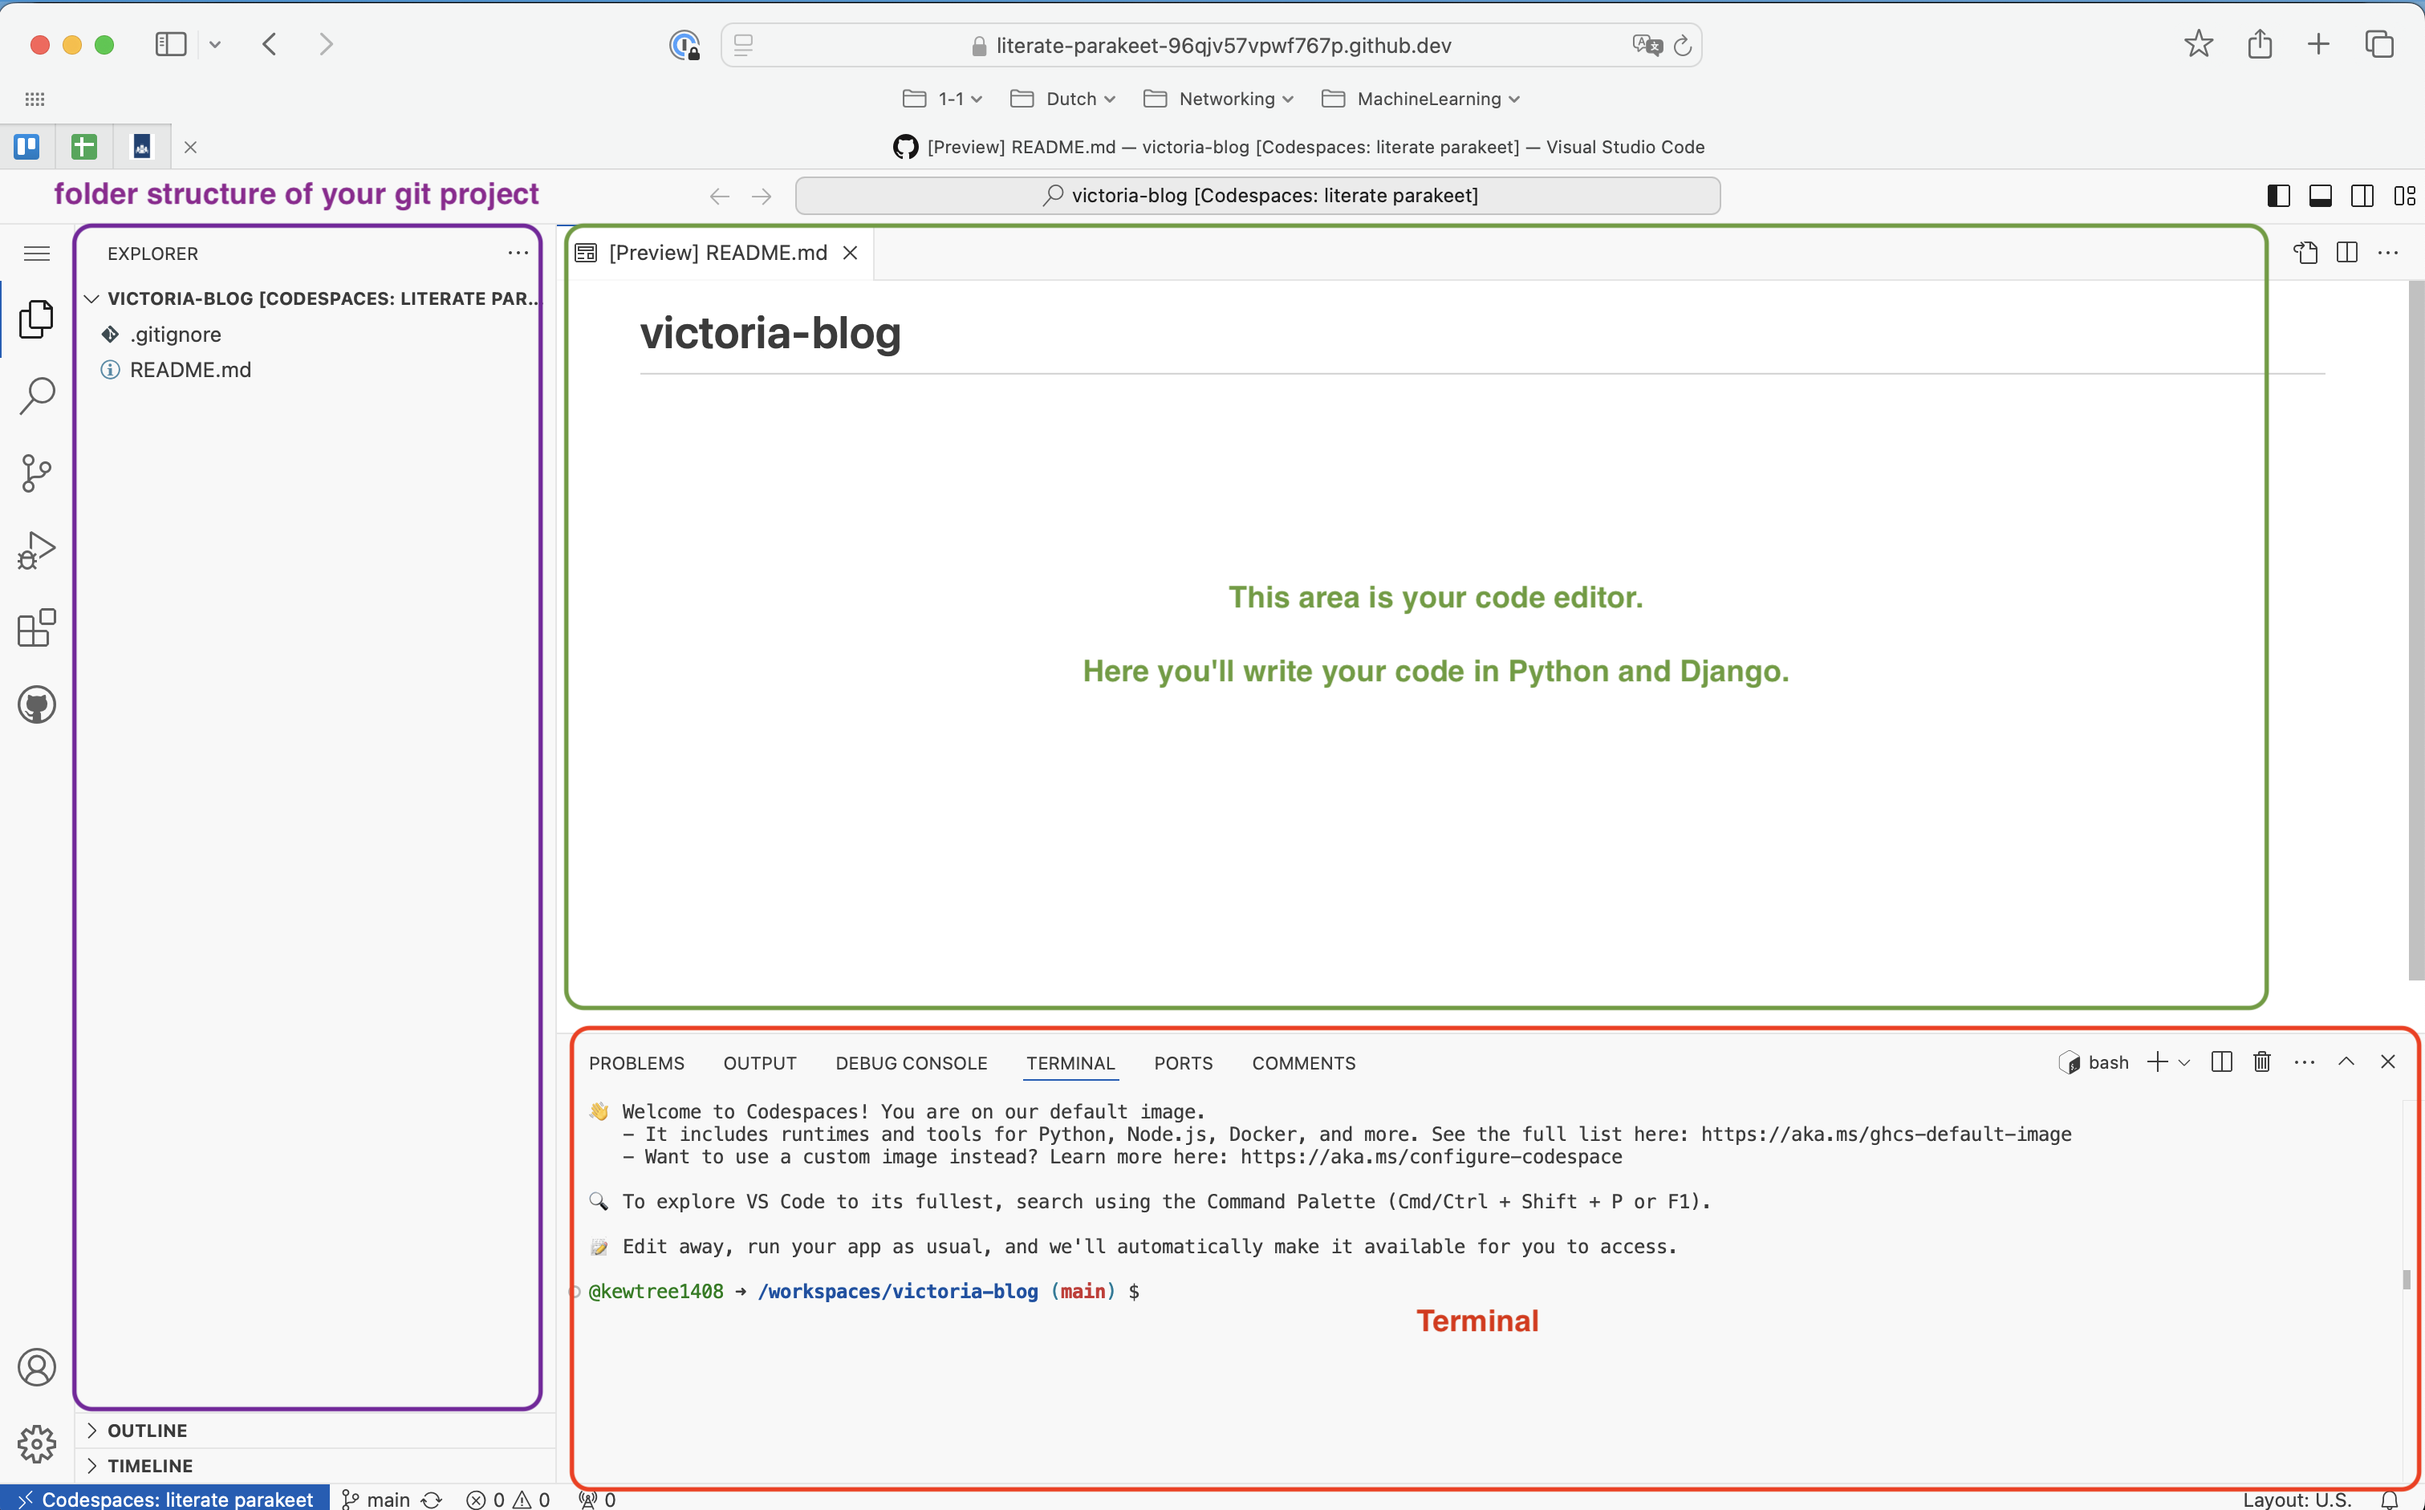
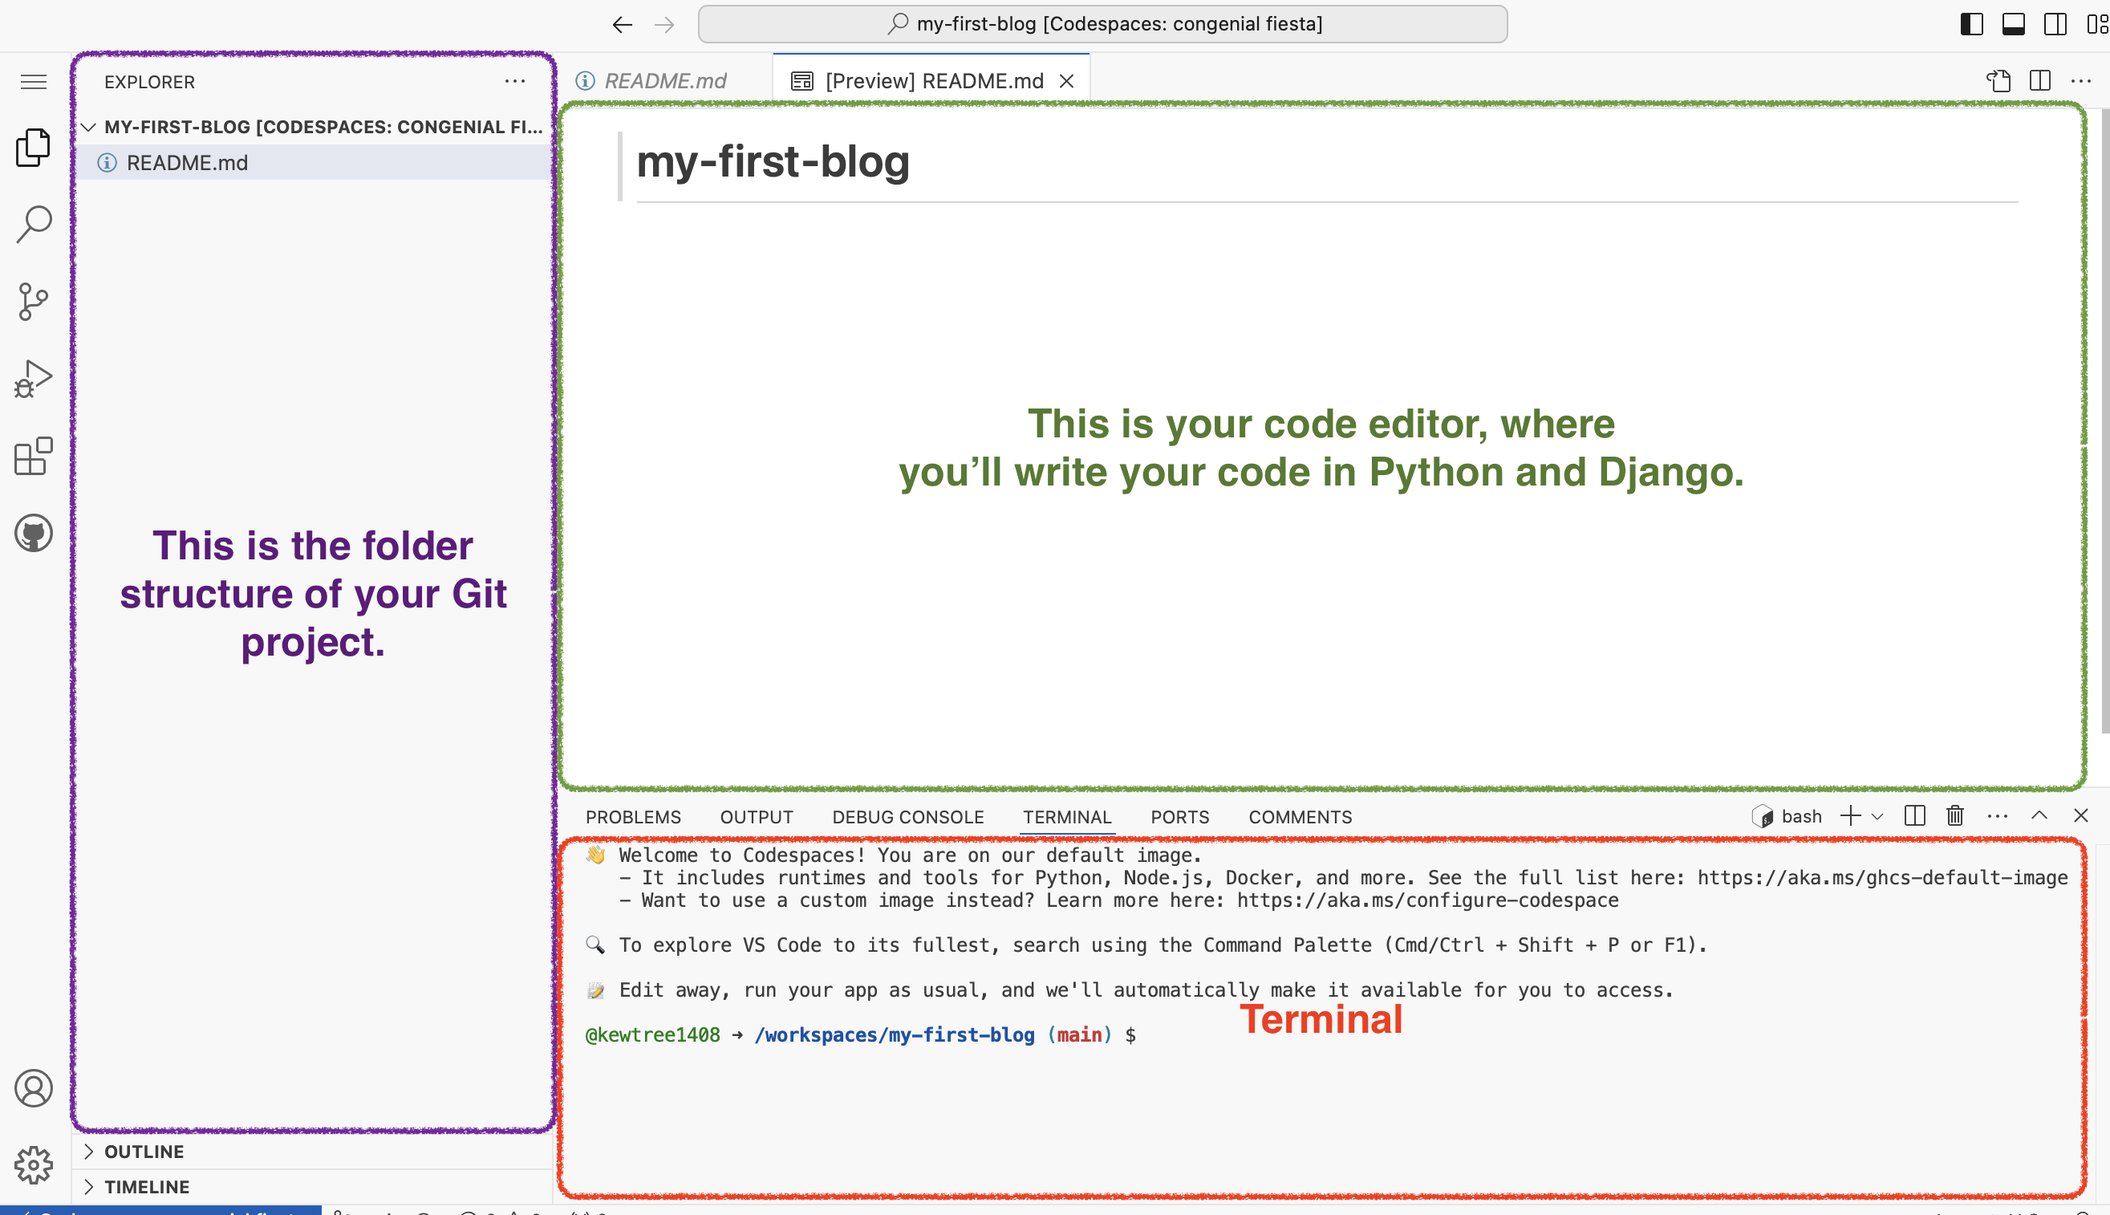
Fixes from PR discussion:
- Reverted the note for Chromebook setup.
- Renamed all screenshots and text regarding the first repository creation to "my-first-repo".
- Updated the "Deploy" chapter with more screenshots.
- Fixed the "Create GitHub account" instructions for Chromebook setup.
- Used a numbered list for Chromebook instructions.
- Corrected indentation in the Chromebook markdown.

diff --git a/en/chromebook_setup/instructions.md b/en/chromebook_setup/instructions.md
@@ -1,35 +1,32 @@
-For people using a Chromebook or those with limited memory on their laptops, we recommend using a cloud IDE environment. This allows you to interact with the command line, Python, and Django directly through your browser, where a code editor is already installed.
+For people using a Chromebook or those with limited memory on their laptops, we recommend using a cloud IDE environment. This allows you to interact with the command line, Python, and Django directly through your browser, where a code editor is already installed. In case you using this instruction, some steps of the tutorial don't have to be done again ("Deploy/Git" [part](https://tutorial.djangogirls.org/en/deploy/#installing-git) ). You’ll find a more detailed explanation in the “Deploy/Git” section.
 
 Your installation experience will be a little different.
 
-- Make a [GitHub](https://github.com) account.
-- Create a GitHub project. Visit [this](https://github.com/new) link, choose any name for your project, and make it public (needed for deployment, you can make it private later). Also, add a `README.md` and `.gitignore` file.
+1. **Go to [GitHub.com](https://github.com)** and sign up for a new, free user account. Be sure to remember your password (add it to your password manager, if you use one).
 
-![](../chromebook_setup/images/create-new-repo.png)
+2. **Create a GitHub project**. Visit [this](https://github.com/new) link, use "my-first-blog" name for your project, and make it public (needed for deployment, you can make it private later). Also, add a `README.md` and `.gitignore` file.
 
-In case you using this instruction, some steps of the tutorial don't have to be done again ("Deploy/Git" [part](https://tutorial.djangogirls.org/en/deploy/#installing-git)). 
+    ![](../chromebook_setup/images/create-new-repo.png)
 
-- Start a Codespace. Go to GitHub [Codespaces](https://github.com/codespaces/new) and select the repository you just created. Click "Create Codespace".
+3. **Start a Codespace**. Go to GitHub [Codespaces](https://github.com/codespaces/new) and select the repository you just created. Click "Create Codespace".
 
-![](../chromebook_setup/images/create-new-codespace.png)
+    ![](../chromebook_setup/images/create-new-codespace.png)
 
-Wait a little bit and you'll see something like that:
+    Wait a little bit and you'll see something like that:
 
-![](../chromebook_setup/images/codespace-preview.png)
+    ![](../chromebook_setup/images/codespace-preview.png)
 
-The [VSCode](https://code.visualstudio.com) editor will open for you automatically. If you see a notification that says "Install Python", please click on it. If not prompted, click the "Extensions" icon on the left sidebar in the Codespace editor. Search for "Python" and click "Install."
+    The [VSCode](https://code.visualstudio.com) editor will open for you automatically. If you see a notification that says "Install Python", please click on it. If not prompted, click the "Extensions" icon on the left sidebar in the Codespace editor. Search for "Python" and click "Install."
 
-![](../chromebook_setup/images/vscode-install-python.png)
+    ![](../chromebook_setup/images/vscode-install-python.png)
 
-The bash terminal (similar to Linux) is at the bottom of the page.
+    The bash terminal (similar to Linux) is at the bottom of the page.
 
-![](../chromebook_setup/images/codespace-preview.png)
+    ![](../chromebook_setup/images/codespace-preview.png)
 
-By default, the GitHub Codespace environment will be deleted after 1 month (this applies only to the environment, not your code). To prevent auto-deletion, you can adjust the settings on the page: https://github.com/codespaces 
+    By default, the GitHub Codespace environment will be deleted after 1 month (this applies only to the environment, not your code). To prevent auto-deletion, you can adjust the settings on the page: https://github.com/codespaces 
 
-![](../chromebook_setup/images/codespace-auto-delete-off.png)
+    ![](../chromebook_setup/images/codespace-auto-delete-off.png)
 
-- Continue with the tutorial
-
-Follow the next steps from the section [Set up virtual environment and install Django](https://tutorial.djangogirls.org/en/installation/#virtualenv).
-Follow than sections for Ubuntu/Linux. Use the Codespaces command line (terminal), accessible through your browser.
+4. **Continue with the tutorial**. Follow the next steps from the section [Set up virtual environment and install Django](https://tutorial.djangogirls.org/en/installation/#virtualenv).
+    Follow than sections for Ubuntu/Linux. Use the Codespaces command line (terminal), accessible through your browser.

diff --git a/en/deploy/README.md b/en/deploy/README.md
@@ -8,13 +8,25 @@ As you learned, a website has to be located on a server. There are a lot of serv
 
 The other external service we'll be using is [GitHub](https://www.github.com), which is a code hosting service. There are others out there, but almost all programmers have a GitHub account these days, and now so will you!
 
-These three places will be important to you.  Your local computer will be the place where you do development and testing.  When you're happy with the changes, you will place a copy of your program on GitHub.  Your website will be on PythonAnywhere and you will update it by getting a new copy of your code from GitHub.
+These three places will be important to you. Your local computer will be the place where you do development and testing. When you're happy with the changes, you will place a copy of your program on GitHub. Your website will be on PythonAnywhere and you will update it by getting a new copy of your code from GitHub.
+
+The deployment process can be illustrated as follows:
+
+![](../deploy/images/deployment_local.png)
+
+If you’re using a **Chromebook** and [GitHub Codespaces](https://github.com/codespaces), your setup will look a bit different. All code-related changes are made not locally on your **Chromebook**, but in the Cloud Environment provided by GitHub.
+
+The deployment process on **Chromebook** and Cloud environment can be illustrated as follows:
+
+![](../deploy/images/deployment_cloud.png)
 
 # Git
 
 > **Note** If you already did the [installation steps](../installation/README.md), there's no need to do this again – you can skip to the next section and start creating your Git repository.
 
 {% include "/deploy/install_git.md" %}
+
+> **Note** If you're using a **Chromebook** and have already completed the **Chromebook** Installation [part](../chromebook_setup/README.md), you've already created the repository and can **skip** all commands from the "Starting our Git repository" and "Ignoring Files" chapters. You can continue from the "First Git commands" chapter.  While you’re welcome to read these chapters, the Terminal commands can be skipped. 
 
 ## Starting our Git repository
 
@@ -31,7 +43,7 @@ $ git config --global user.email you@example.com
 ```
 Initializing the git repository is something we need to do only once per project (and you won't have to re-enter the username and email ever again).
 
-### Ignoring files
+## Ignoring Files
 
 Git will track changes to all the files and folders in this directory, but there are some files we want it to ignore. We do this by creating a file called `.gitignore` in the base directory. Open up your editor and create a new file with the following contents:
 
@@ -79,6 +91,9 @@ and the normal `ls` command won't show these files.
 Instead use `ls -a` to see the `.gitignore` file.
 
 > **Note** One of the files you specified in your `.gitignore` file is `db.sqlite3`. That file is your local database, where all of your users and posts are stored. We'll follow standard web programming practice, meaning that we'll use separate databases for your local testing site and your live website on PythonAnywhere. The PythonAnywhere database could be SQLite, like your development machine, but usually you will use one called MySQL which can deal with a lot more site visitors than SQLite. Either way, by ignoring your SQLite database for the GitHub copy, it means that all of the posts and superuser you created so far are going to only be available locally, and you'll have to create new ones on production. You should think of your local database as a good playground where you can test different things and not be afraid that you're going to delete your real posts from your blog.
+
+
+## First Git commands
 
 It's a good idea to use a `git status` command before `git add` or whenever you find yourself unsure of what has changed. This will help prevent any surprises from happening, such as wrong files being added or committed. The `git status` command returns information about any untracked/modified/staged files, the branch status, and much more. The output should be similar to the following:
 

diff --git a/en/chromebook_setup/README.md b/en/chromebook_setup/README.md
@@ -1,3 +1,5 @@
 # Chromebook setup
 
+> **Note** If you already worked through the [installation steps](../installation/README.md), no need to do this again – you can skip straight ahead to [Introduction to Python](../python_introduction/README.md).
+
 {% include "/chromebook_setup/instructions.md" %}
